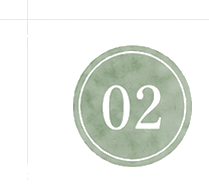
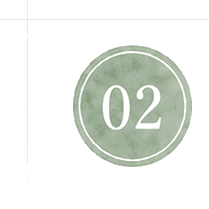
Fix: 素材を正方形中央揃えに再クロップ・透過PNG化
- --no-trim で全36素材を 209×209px 正方形・セル中央揃えに変更
- --remove-white で白背景を透過に変換（RGBA PNG）
- mix-blend-mode: multiply を除去（透過不要になったため）
- target-icon / strength-num / flow-step-num すべて適用

diff --git a/index.html b/index.html
@@ -745,7 +745,6 @@
       display: block;
       margin-bottom: 18px;
       object-fit: contain;
-      mix-blend-mode: multiply;
     }
 
     .target-card-title {
@@ -799,7 +798,6 @@
       height: 52px;
       flex-shrink: 0;
       object-fit: contain;
-      mix-blend-mode: multiply;
     }
 
     .strength-body-title {
@@ -1248,7 +1246,6 @@
       object-fit: contain;
       position: relative;
       z-index: 1;
-      mix-blend-mode: multiply;
     }
 
     .flow-step-body {
